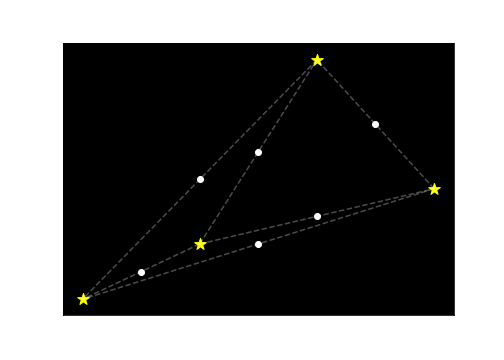
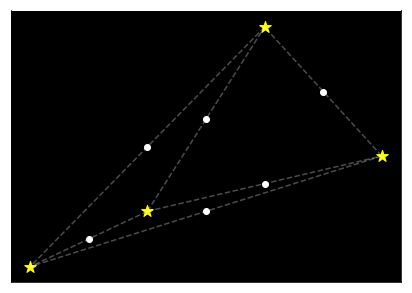
Enacted 1st methods edits from Jed

diff --git a/methods.tex b/methods.tex
@@ -20,31 +20,49 @@ Performing this same method in a loop throughout all of the nights allows us to 
 By summing up the total time observed over each night, we can attain the total observation time over the course of our data collection period.
 
 A depiction of a portion of an observation log and our time analysis table can be seen in Figure~\ref{obslog_time}.
-Note that while the information row that contains "New Observation Run Started" sounds as if it represents the start time, we define our start time from the information row that states "A new night has arrived! Frame analysis beginning!".\comment{Should comment on why this is.}
+Note that while the information row that contains "New Observation Run Started" sounds as if it represents the start time, it does not.
+A new observation run begins once the the D6 Camera is placed outside and turned on.  
+Occasionally, the camera is set up while the sky is still too bright to begin actual video recordings. 
+Therefore, we define our start time from a separate information row that states "A new night has arrived! Frame analysis beginning!". 
 End times are determined by the information rows labeled "Day has come.  Analysis going to sleep."
 
 \begin{figure}[ht!]
   \centering
-  \includegraphics[scale=0.53]{images/obslog_time.png}
+  \includegraphics[scale=0.51]{images/obslog_time.png}
   \caption{An example observation log and the resulting time analysis information}
   \label{obslog_time}
 \end{figure}
 
-It is imperative that we save not only the total observing time over a given night, but also the start and end times. \comment{Is it important to comment about errors you find when doing this matching? Or if you throw away tiny portions where the camera was clearly being tested?}
+Occasionally, we run tests on different D6 AllSky Camera actions. 
+For example, we could program it to shut down, restart, or take pictures.
+On August 29, 2018, one test resulted in no recorded "Day has come.  Analysis going to sleep." log.
+This meant that we didn't have a correct log for that night's observation end time, leading to an error of a $14$ day observation session.
+In actuality, the observation session was purely intended for testing and lasted less than one hour.  
+Fringe cases like this raised red flags in our analysis and were looked at individually.
+In all cases, these testing sessions were not considered part of our real observation.
+
+
+It is imperative that we save not only the total observing time over a given night, but also the start and end times. 
 This information is crucial for the next section, where we calculate the area of sky observed on a given night.
 
 \section{Calculating Total Observation Area}
 
 One of the most difficult problems we needed to address for this project was determining what area of the sky the D6 AllSky Camera observed each night.  
 In an ideal world, our camera would be able to see all parts of the observable night sky, spanning across all horizons.  
-However, due to optical limitations of our system and fisheye lens, this is not possible. 
-Nevertheless, determining the flux is a primary goal of this project, and is directly dependent on observation area. As such it is vital we come up with a means to get a precise estimate\comment{This seems a bit of a paradox\ldots}. \inlinecomment{In this paragraph you were mainly focusing on the issue of us not getting the entire circle within our field-of-view, correct? Might want an image to better illustrate that.}
+However, due to optical limitations of our system and this is not possible.
+Figure \ref{views_sidebyside} shows how our field of view is rectangular, as opposed to some other systems with a slightly more encompassing view.
+This means that even if we new the total angular coverage of our camera with respect to the horizon, we wouldn't be able to precisely estimate our total observation area.
+Nevertheless, determining the flux is a primary goal of this project, and is directly dependent on observation area. 
+
+\begin{figure}[ht!]
+  \makebox[\textwidth][c]{\includegraphics[width=1.2\textwidth]{images/allsky_view_sidebyside.png}}
+  \caption{Left: our rectangular field of view.  Right:  A separate system's more complete circular view.}
+  \label{views_sidebyside}
+\end{figure}
 
 To make matters more complicated, while the use of a fisheye lens gets us more coverage of the sky, it also results in some distortion of the image.
 These distortions generally get worse the further an object is from is from zenith (directly overhead).
-An an example, imagine a square cloud located directly overhead.  
-As that square drifts towards any given horizon, its size becomes smaller relative to you, the observer.\comment{Probably need more evidence or argument than this.}
-The significance of this problem as related to our project stems from the fact that while $50\% $ of our camera's pixels may be covered by clouds, this doesn't necessarily mean that $50\%$ of the observable sky is covered.\comment{good, and well put.}
+The significance of this problem as related to our project stems from the fact that while $50\% $ of our camera's pixels may be covered by clouds, this doesn't necessarily mean that $50\%$ of the observable sky is covered.
 Therefore, we need some way of relating a given camera region to some observable distance.
 
 To do this, we used observations of the Moon and various stars to calculate angular distance to pixel ratios for different regions of our camera.
@@ -55,24 +73,39 @@ To fully understand the methodology behind calculating the total observation are
 \subsection{Angular Separation}
 
 Consider two objects, both of which are visible to you, an observer.
-One simple way to compare the two objects is by measuring the direct distance between them.  
+One simple way to compare the two objects is by measuring the direct distance between them.
+However, this isn't always known, especially when the objects are extremely far away.
 An alternative way to compare the two would be to imagine two straight lines extending from your location to both objects.  
 Because both lines are extending from the same location, we can calculate the associated angle between the two lines, known as the angular separation.
-This angular separation may change as you move locations if the objects are nearby. However, if both objects are extremely far away, no small change in observer location will change the angular separation significantly.\comment{We use angular separation because we have no idea what radial distance separates the objects (generally). As such, we treat everything as being an equal radial distance away, and hence get the concept of the celestial sphere. And angles are a natural way to measure displacement on a sphere.}
+This angular separation may change as you move locations if the objects are nearby. However, if both objects are extremely far away, no small change in observer location will change the angular separation significantly.
+We can essentially treat the two objects as points on a celestial sphere, with equal radial distance from the observer.  
+Angles are a natural way of measuring displacement on a celestial sphere.
 
-We can apply this concept and principle to calculating angular distances between stars and other celestial objects.
-By finding the angular separation across a given pixel, we attain a precise estimate\comment{this again} for angular coverage of the camera.\comment{only if we sum over all the pixels}
+
+\begin{figure}[ht!]
+  \centering
+  \includegraphics[scale=0.53]{images/angdistances_explained.png}
+  \caption{A theoretical depiction of two separate pixel regions' corresponding observable surface areas.  These areas are dependent on the angular coverage of that pixel region.}
+  \label{angdist_exp}
+\end{figure}
+
+
+We can apply this concept and principle to calculate angular distances between stars and other celestial objects.
+This intuitively makes sense because we don't necessarily know the extremely large distances to stars or between them.
+We can therefore treat them like points on a celestial sphere and measure the angles between them.
+Relating an angular distance to a pixel distance allows us to determine angular separation per pixel within that general pixel region.
+By taking data on the angular and pixel separations between celestial objects across different pixel regions, we can estimate angular coverage in separate parts of our field of view independently.
+
+We can eventually sum our findings across all pixel regions to calculate our camera's total angular coverage.  
 Assuming that the fireballs are ablating in our atmosphere at a given height, we can then apply our angular measurements to attain an observational surface area as desired.
-It is easy to imagine this surface area used in flux calculations as the base of a cone, where the cone's point represents the viewer's field of view.\comment{But it is a rounded cone?}
-Importantly,to calculate angular separation between objects, we need to first have a database of objects to compare.\comment{You really need a picture or pictures in this section.}
+Figure \ref{angdist_exp} depicts a theoretical relationship between different pixel regions representing different angular areas.
+We see that the surface area used in flux calculations is a slightly curved base of a rectangular pyramid, where the tip of that pyramid represents a pixel or pixel region.
+Importantly,to calculate angular separation between many objects, we need to first have a database of objects to compare.
 
-\inlinecomment{I think you need to revisit the idea that you want to use the known positions of stars and the Moon to serve as these calibration points before jumping into the next section.}
 \subsection{Collecting a Star Catalog}
 
-While the primary aim of the D6 AllSky Camera is to capture video footage of fireballs, it serves many other roles.\comment{This feels a bit awkward to me. It does these other things in an effort to better describe the population of fireballs.} 
-Throughout the night, it takes several snapshots of the nights sky. 
+The D6 AllSky Camera not only captures video footage of fireballs, it also takes snapshots (pictures) throughout an observation night to aid in the larger fireball analysis vision.
 The motivation behind this is primarily to check cloud coverage, but these images can store other important information.
-
 Stars are visible in many D6 AllSky Camera's snapshots.  
 The first step in creating a catalog of star information is recognizing stars within snapshots.  
 We went about this by cleaning the image of hot spots, thresholding the image, and using the a \texttt{SimpleBlobDetector} to capture star locations.
@@ -85,61 +118,96 @@ These pixels are problematic when trying to locate stars, as they don't represen
 Fortunately, this source of error can be accounted for by taking an image while the lens of a camera is covered.  
 This is called a dark frame, because the lens is not exposed to light.
 Ideally the dark frame displays a black image, but most cameras will have a few hot pixels.
-By subtracting this dark frame, represented by a 2-dimensional array of values ranging from $0$ to $255$, we are able to remove the hot pixel's effect from all other frames.\comment{An example would be nice.}
+By subtracting this dark frame, represented by a 2-dimensional array of values ranging from $0$ to $255$, we are able to remove the hot pixel's effect from all other frames.
+Figure \ref{hotpix} represents the an image, the dark frame, and that first image subtracted by the dark frame.
+
+
+
+\begin{figure}[ht!]
+  \makebox[\textwidth][c]{\includegraphics[width=1.3\textwidth]{images/og_darkframe_difference.png}}
+  \caption{From left to right: an unaltered snapshot, the dark frame, and the dark frame subtracted from the original snapshot.  Note the region enclosed depicts a clear area of difference between the images.}
+  \label{hotpix}
+\end{figure}
+
+
 
 \subsubsection{Thresholding}
 
 Once these hot pixels are subtracted from a given frame of interest, the next step is to enact some type of threshold.
-In this case, a threshold represents a cutoff photon count\comment{Careful calling these photon counts. They are related but not directly proportional. Better to just call it pixel brightness.} for every pixel.  
+In this case, a threshold represents a cutoff photon brightness for every pixel.  
 If a pixel has a count that is lower than the threshold, that photon count is changed to zero, which is pure black.  
 Alternatively, if a pixel has a count that is higher, the  count becomes 255, or pure white.  
+
 Thresholding serves the important role of simplifying an image to a purely black and white, on or off type image.
-It also remove some of the inherent error associated with photon counts.\comment{How are you justifying this? Or what do you mean?}
 The necessary threshold for different images differed in accordance with the amount of surrounding light.
 For the purposes of this project, we used an initial threshold of $140$.
 If $140$ was not a sufficient threshold, this value was increased in increments of $5$ until the resulting image appeared to properly segment between open sky and clouds. 
-For example, images that contained the Moon, a bright source that tends to wash out neighboring pixels, needed higher threshold values than images without.\comment{I'd like to see some images illustrating this here as well.}
+For example, images that contained the Moon, a bright source that tends to wash out neighboring pixels, needed higher threshold values than images without.
+Figure \ref{dif_thresholds} shows how different images may require different thresholds based on their original brightness.
+The presence of clouds and/or the moon also plays a significant role in this process.
+
+\begin{figure}[ht!]
+  \centering
+  \includegraphics[scale=0.4]{images/different_thresholds.png}
+  \caption{Two separate D6 snapshots alongside their thresholded images.  Note the differences in their respective threshold cutoff values.}
+  \label{dif_thresholds}
+\end{figure}
 
 \subsubsection{SimpleBlobDetector and Stellarium}
 
 Next, we use the \texttt{SimpleBlobDetector} function from the \texttt{CV2} library to detect potential stars.
 This function is able to read an image and scan for objects that meet your specified parameters.
 Variable parameters include, but are not limited to, size (in pixels), circularity, convexity, and color.
-In this instance, the color has a value of $255$.\comment{What about those other parameters?} 
-When enacted, this function scans the picture and returns a list of detected locations centered on the object.
+In this instance, the color filter has a value of $255$.
+We filter based on area, scanning for stars between 1 and 20 pixels in size.
+The star must lastly have a minimum circularity value of $0.5$.
+When enacted, this function scans the picture and returns a list of detected locations where all of these parameters are met.
 Using simple plotting functions, we can overlay these locations with the original image.
 
 At this point, we have a list of potential object locations, but no foreseeable way of identifying the real ones.
 As luck would have it, \textit{Stellarium}, a free astronomy software allows users to view a clear night sky from any point on earth at any time.
 Additionally, this interactive software stores information about the stars' names and other important information.
-By viewing \textit{Stellarium} and a D6 AllSky Snapshot and comparing the two, we are able to recognize which objects are real and which are false positives.\comment{"Why are there false positives? I thought we eliminates the hot spots?"}
+By viewing \textit{Stellarium} and a D6 AllSky Snapshot and comparing the two, we are able to recognize which objects are real and which are false positives.
+While hot pixels remove some false positives, random noise causes some pixels (or pixel groups) to resemble the size and color of stars.
 Because each snapshot is labeled with the corresponding data and time, this method proved sufficient in identifying celestial objects from images.
 A depiction of this process can be seen in Figure~\ref{star_recognition}.  
 When comparing the two images, it should be clear that the objects numbered $17$, $16$, $19$, and $21$ correspond to Betelgeuse, Aldebaran, Capella, and Polaris. 
 Also note that in the image, there are several recognized objects that don't have any celestial counterpart.
 These are all false positives.
 Similarly, there are cases in which the \texttt{SimpleBlobDetector} is not able to recognize an object that appears in a snapshot.
-\begin{figure}[htb]
-\centering
-  \begin{tabular}{c|c}
-    \includegraphics[width=.6\textwidth]{images/FourStarz_OneFrame.png} & \includegraphics[width=.4\textwidth]{images/zoom_stellarium.png}
-  \end{tabular}
-  \caption{A D6 AllSky snapshot (left) alongside a Stellarium display (right)\inlinecomment{Please fix this image so the dark regions of the images align! Also, you need a much more robust caption explaining what is happening in each image. And you might want to zoom into Stellarium so its field-of-view roughly matches that of the image?}}
+
+\begin{figure}[h]
+  %\centering
+  \makebox[\textwidth][c]{\includegraphics[width=1.3\textwidth]{images/stellarium_sidebyside.png}}
+  %\includegraphics[scale=0.43]{images/stellarium_sidebyside.png}
+  \caption{A D6 AllSky snapshot (left) alongside a Stellarium display (right).  We compare the two to find recognized stars that are found in both images.  These are circled in lime green in the Stellarium display. }
   \label{star_recognition}
 \end{figure}
 
-Once an object in a given frame is matched to a name, we used the coding library \texttt{Vizier}\comment{I'm actually not familiar with this. Is this a standard Python library or part of AstroPy?} to automatically look up the star's right ascension, declination, V-magnitude, azimuth, and elevation.  
-This, combined with the star's pixel location, time, and reference file name\comment{What is this ``reference file name''?}, was added to our star catalog as a singular data row.
+
+Once an object in a given frame is matched to a name, we used the Python library \texttt{Astroquery} and its function \texttt{Vizier} to automatically look up the star's right ascension, declination, V-magnitude, azimuth, and elevation.  
+This, combined with the star's pixel location, time, and original snapshot's file name, was added to our star catalog as a singular data row.
+
+\begin{figure}[h]
+  \centering
+  \includegraphics[scale=0.4]{images/az_el.png}
+  \caption{A visualization of altitude and azimuth measurements on a unit sphere.  Note that a positive azimuth angular measurement moves from North towards East.}
+  %   \setcaptioncitation{https://en.wikipedia.org/wiki/Horizontal_coordinate_system#/media/File:Azimuth-Altitude_schematic.svg}
+  \label{altaz}
+\end{figure}
 
 \subsubsection{Azimuth and Elevation}
 
 Each star has several inherent properties such as magnitude, right ascension, and declination.  
 The later two represent coordinates that locate a star on the celestial sphere.  
 Other properties, such as a star's azimuth and elevation change over time and vary dependent on the observers location.  
-These two properties indicate a star's position in the sky relative to an observer and act similarly to spherical coordinates.\comment{You really should comment or provide an image of what each one measures!}
+These two properties indicate a star's position in the sky relative to an observer and act similarly to spherical coordinates.
 
+Figure \ref{altaz} shows how altitude and azimuth coordinates are determined. 
+Note that the azimuth is an angle with respect to North.
+A move closer to a pure East direction reflects a positive azimuth angle, whereas a move in the West direction reflects a negative azimuth angle.
 Through finding the azimuth and elevation of a star, we can assign a star a 3-D coordinate value that lays on a unit sphere.  
-Wwe can then calculate the angular separation between two 3-D coordinates by taking advantage of properties of the dot product:
+We can then calculate the angular separation between two 3-D coordinates by taking advantage of properties of the dot product:
 
 $$ \vec{A} \cdot \vec{B} = |\vec{A}||\vec{B}| \cos{(\theta)} $$
 
@@ -149,22 +217,28 @@ Using this knowledge, we may transform the above equation to:
 
 $$ \theta = \arccos{(\vec{A} \cdot \vec{B})} $$
 
-Given this formula along with information stored in the star catalog, we are able to calculate angular distance per pixel across different regions of the camera frame.\comment{Whoa, this is a jump. With this you can just calculate the angular separation between two points that we happen to see in our image.}
+Given this formula we calculate the angular distance that separates two different celestial objects.
+The average angular distance per pixel measurement is determined by taking the angular distance divided by the pixel distance between the two celestial objects' pixel locations.
+This equation is important and can be seen the following equation:
+
+$$ \textrm{Avg. Angular Distance per Pixel} = \frac{\theta}{\textrm{pixel separation}} $$
+
+
 
 
 \subsection{Calculating Angular Areas}
 
-The D6 AllSky camera is a versatile system and it's orientation can change slightly from night to night.
+The D6 AllSky camera is a versatile system and it's orientation and position can change slightly from night to night.
 Because of this, there are several considerations that must be accounted for when calculating angular distance per pixel across different camera regions.
-For example, if pixel $(10,10)$ has an angular separation per pixel of $0.10$ one night, if the camera rotates by $45 \deg$ we may read a different angular separation per pixel at that location. \comment{Should we though? Wouldn't the argument be that the camera should at least be rotationally symmetric?}
-This is because the pixels may be representing a different area of sky upon rotation.
-We have developed a method to account for this consideration.
+The D6 AllSky Camera is a versatile observation tool, and it therefore takes observations in slightly different locations each time it is put out.
+A change in observation location could mean that if one night a star is located at pixel value $(10,10)$, and the next night it could be located at $(94,134)$.
+We have developed a method for calculating angular separation per pixel data points that account for this consideration.
 
 \subsubsection{Comparing Objects from the same Night}
 
 The star catalog stores information about celestial objects over the course of all observations.
 Using constraints from the Time Analysis information (start time, end time, time elapsed), we can isolate rows within the star catalog from a specific night.  
-After creating this subsection, we can then use our described method to calculate the angular separation per pixel for every combination of two objects.\comment{I'm confused. I don't feel like you have made clear how this angular separation per pixel is calculated yet?}
+After creating this subsection, we can then use our described method to calculate the angular separation per pixel for every combination of two objects.
 One might question where the data behind this angular distance per pixel should be located.
 After all, there are two different object locations used to calculate the value.
 Our strategy was to locate the point in between the two objects.  
@@ -173,7 +247,7 @@ Figure~\ref{starcombos} depicts these combinations along with the locations of t
 \begin{figure}[ht!]
   \centering
   \includegraphics[scale=0.70]{images/star_combinations.png}
-  \caption{A simplified depiction of angular distance per pixel locations\inlinecomment{Clarify what you mean by this.} (white dots) given a set of objects (yellow stars).}
+  \caption{A set of four stars (yellow) that could be compared to calculate six separate angular distance per pixel data points (white).}
   \label{starcombos}
 \end{figure}
 
@@ -184,38 +258,40 @@ We can thus treat each individual observation as a unique object, even comparing
 This creates many more combinations than if we were to only consider unique stars.
 
 After calculating all potential angular separation per pixel values alongside their location information, we may move on to calculating average angular separation per pixel in different camera regions.
-For the sake of simplicity and practicality, we split up our $720 \times 480$ pixel camera frame into $40 \times 40$ pixel squares.\comment{From a coding point of view, this wasn't really necessary. Why did we really do it?}
+For the sake of dividing our field of view into different pixel regions, we split up our $720 \times 480$ pixel camera frame into $40 \times 40$ pixel squares.
+This also allows us to observe the difference in angular distance per pixel ratios across the entire field of view
 All angular separation per pixel measurements located inside a given square were averaged over to determine that square's value.
-% Delete this picture and following sentence.  Replace with a more descriptive picture of the process, not the results.  Save for data section!
-Figure~\ref{colorful2} shows the resulting average angular separation per pixel for different squares in our camera frame.\comment{Given your comment in the code. Is this the final version or the version that still needs fixed?}
 
-\begin{figure}[ht!]
-  \centering
-  \includegraphics[scale=0.35]{images/boxes_colored.png}
-  \caption{Average angular separation per pixel for different camera regions. \inlinecomment{Again, you need more robust figure captions. Also, did you ever talk about rotating the points?}}
-  \label{colorful2}
-\end{figure}
+
 
 
 \section{Calculating Cloud Coverage}
 
-The D6 AllSky Camera does not always remain outside.
-For the protection of the system as well as for saving power purposes, the camera is only placed outside during nights where observation conditions are promising.\comment{That shouldn't remain that way forever though. The intent is clearly to have it outside all the time in the end.}
-Some nights, the sky is clear throughout the entire night, while others are partially cloudy.\comment{Actually, given the direction you went with this, why even mention the above?}
+The D6 AllSky Camera currently does not always remain outside.
+For the most part, our camera was only placed outside during nights where observation conditions were promising.
 Because we cannot see or properly analyze fireball events that happen behind clouds, we cannot count cloudy regions as observable areas.
 As mentioned previously, the D6 AllSky Camera takes several snapshots of the night sky systematically throughout an observing session.
 Specifically, it currently takes images every $30$ minutes.
 By using thresholding, we have seen how we can determine which pixels qualify as not observable areas.
-The threshold value that we used in this step was a photon value of $90$.\comment{Why does this threshold differ from the one earlier?}
+The threshold value that we used in this step was a photon value of $90$.
+
+
+We chose a different threshold pixel value for this cloud analysis than the threshold in our star recognition program.
+While thresholding for star recognition, we want to minimize the number of false positives.
+The more distinguishable bright small objects in a given frame, (ex: pixels on the edge of a cloud) the larger number of objects that meet our \texttt{SimpleBlobDetector} parameters.
+This adds a hefty bulk of time sifting through false positive objects.
+While trying to find clouds, we don't want to get rid of hazy cloud boundaries, so we utilize a lower threshold.
 
 Unfortunately, some pixels that fall within a broad cloud area are not recognized through this process.
-The solution to this problem lies in the \texttt{CV2} functions \texttt{MORPH\_CLOSE} and \texttt{MORPH\_ERODE}.\comment{These are more any binary image functions that CV2 specific}
+The solution to this problem lies in the \texttt{OpenCV} functions \texttt{MORPH\_CLOSE} and \texttt{MORPH\_ERODE}.
 The first of these functions fills in regions of empty space that are next to filled in space.
 This is helpful in closing gaps between pixels that represent clouds.
 However, because the edges of the clouds are expanded in this process, we must subsequently perform a \texttt{MORPH\_ERODE} that works in the opposite fashion.
-Once a hole is completely closed, there is no space within a cloud for the eroding function to open up, hence providing a satisfying answer to the cloud predicament.\comment{You should reference the image earlier for a visual to better understand what you are trying to eliminate.}
+Once a hole is completely closed, there is no space within a cloud for the eroding function to open up, hence providing a satisfying answer to the cloud predicament. 
+The difference between a thresholded image and the subsequently closed/eroded image can be seen in the upper-right and lower-left panels of Fig. ~\ref{colorful2}.
+We may observe that this method fills in a vast majority of the small dark holes in the thresholded image.
 
-After this successful threshold and subsequent closing/eroding process is complete, the next step is implementing the relationships between pixels and angular distance as seen in Figure~\ref{colorful2}.
+After this successful threshold and subsequent closing/eroding process is complete, the next step is implementing the relationships between pixels and angular distance.
 By assigning the correct regional angular separation per pixel value to each pixel within a cloud, we are able to estimate the angular area that cloud covers.
 Figure~\ref{colorclouds} shows the processes taken in calculating the area occupied by clouds.
 Note that both a filling and eroding function was used to attain the lower left image.
@@ -225,7 +301,7 @@ The observable area during that time is the cloud coverage subtracted from the t
 \begin{figure}[ht!]
   \centering
   \includegraphics[scale=0.4]{images/Cloud_analysis.png}
-  \caption{The processes behind determining the area of cloud coverage.\inlinecomment{Way more robust caption. This is arguably the most important image of your analysis section. Don't chince out on it!}}
+  \caption{From top left to bottom right: a cloudy D6 snapshot, that snapshot with a threshold applied, the thresholded image after a close/erode function was applied, the subsequent pixels assigned angular distance per pixel measurements.  The angular distance per pixel map is discussed more thoroughly in the Data chapter.}
   \label{colorclouds}
 \end{figure}
 

diff --git a/background.tex b/background.tex
@@ -54,7 +54,7 @@ Comet fragments make up a majority of the substance in meteor showers.
 
 \begin{figure}[ht!]
   \centering
-  \includegraphics[scale=0.7]{images/persiod_shower.jpg}
+  \includegraphics[scale=1]{images/persiod_shower.jpg}
   \caption{The Perseid meteor shower and its relation to our solar system.}
   \label{perceid}
 \end{figure}
